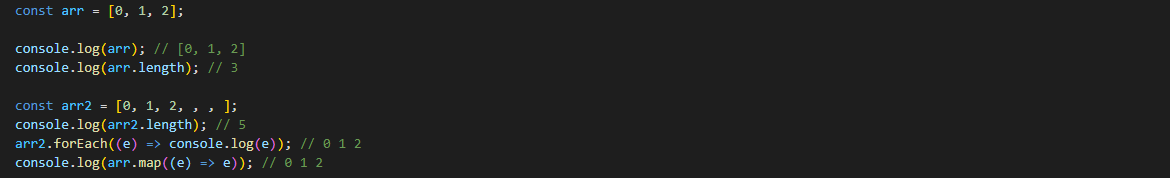
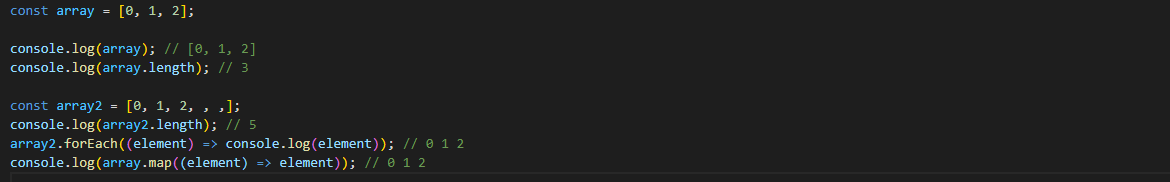
fix: html, move links to js

diff --git a/Task2/src/index.html b/Task2/src/index.html
@@ -18,90 +18,6 @@
             JS начиная от ECMAScript 6
         </h2>   
         <div class="header-menu">
-            <div class="header-menu__link">
-                <a class="link_top" href="#arrows">Стрелочные функции</a>
-            </div>
-            <div class="header-menu__link">
-                <a class="link_top"  href="#classes">Классы</a>
-            </div>
-            <div class="header-menu__link">
-                <a class="link_top"  href="#defaultParam">Параметры по умалчиванию</a>
-            </div>
-            <div class="header-menu__link">
-                <a class="link_top"  href="#destruction">Деструктуризация</a>
-            </div>
-            <div class="header-menu__link">
-                <a class="link_top"  href="#forOf">for...of</a>
-            </div>
-            <div class="header-menu__link">
-                <a class="link_top"  href="#forOf">for...of</a>
-            </div>
-            <div class="header-menu__link">
-                <a class="link_top"  href="#generators">Итераторы, генераторы</a>
-            </div>
-            <div class="header-menu__link">
-                <a class="link_top"  href="#object">Объекты</a>
-            </div>
-            <div class="header-menu__link">
-                <a class="link_top"  href="#promise">Промисы</a>
-            </div>
-            <div class="header-menu__link">
-                <a class="link_top"  href="#promiseAll">Promise all</a>
-            </div>
-            <div class="header-menu__link">
-                <a class="link_top"  href="#proxy">Proxy</a>
-            </div>
-            <div class="header-menu__link">
-                <a class="link_top"  href="#reflect">Reflect</a>
-            </div>
-            <div class="header-menu__link">
-                <a class="link_top"  href="#map">Map</a>
-            </div>
-            <div class="header-menu__link">
-                <a class="link_top"  href="#set">Set</a>
-            </div>
-            <div class="header-menu__link">
-                <a class="link_top"  href="#spread">Spread, Rest</a>
-            </div>
-            <div class="header-menu__link">
-                <a class="link_top"  href="#strMethods">String methods</a>
-            </div>
-            <div class="header-menu__link">
-                <a class="link_top"  href="#literals">Шаблонные литералы</a>
-            </div>
-            <div class="header-menu__link">
-                <a class="link_top"  href="#variables">Variables</a>
-            </div>
-            <div class="header-menu__link">
-                <a class="link_top"  href="#arrMethods">Методы массивов</a>
-            </div>
-            <div class="header-menu__link">
-                <a class="link_top"  href="#asyncAwait">Async await</a>
-            </div>
-            <div class="header-menu__link">
-                <a class="link_top"  href="#forAwaitOf">for-await-of</a>
-            </div>
-            <div class="header-menu__link">
-                <a class="link_top"  href="#tryCatch">try...catch</a>
-            </div>
-            <div class="header-menu__link">
-                <a class="link_top"  href="#expImp">Експорт, Импорт</a>
-            </div>
-            <div class="header-menu__link">
-                <a class="link_top"  href="#comma">Висящие запятые</a>
-            </div>
-            <div class="header-menu__link">
-                <a class="link_top"  href="#bigInt">BigInt</a>
-            </div>
-            <div class="header-menu__link">
-                <a class="link_top"  href="#regExp">Регулярные выражения</a>
-            </div>
-            <div class="header-menu__link">
-                <a class="link_top"  href="#optChain">Опциональная цепочка</a>
-            </div>
-            <div class="header-menu__link">
-                <a class="link_top"  href="#symbol">Symbol</a>
-            </div>
         </div>
     </div>
 </header>

diff --git a/Task2/src/app.js b/Task2/src/app.js
@@ -1,18 +1,59 @@
-const button = document.querySelector('.link_up');
-window.addEventListener('scroll', () => {
+const headerMenu = document.querySelector(".header-menu");
+
+const addLink = (href, text) => {
+  const div = document.createElement("div");
+  const link = document.createElement("a");
+  link.classList.add("link_top");
+  div.classList.add("header-menu__link");
+  link.textContent = text;
+  link.setAttribute("href", href);
+  div.appendChild(link);
+
+  headerMenu.append(div);
+};
+addLink("#arrows", "Стрелочные функции");
+addLink("#classes", "Классы");
+addLink("#defaultParam", "Параметры по умалчиванию");
+addLink("#destruction", "Деструктуризация");
+addLink("##forOf", "for...of");
+addLink("#generators", "Итераторы, генераторы");
+addLink("#object", "Объекты");
+addLink("#promise", "Промисы");
+addLink("#promiseAll", "Promise all");
+addLink("#proxy", "Proxy");
+addLink("#reflect", "Reflect");
+addLink("#map", "Map");
+addLink("#set", "Set");
+addLink("#spread", "Spread, Rest");
+addLink("#strMethods", "String methods");
+addLink("#literals", "Шаблонные литералы");
+addLink("#variables", "Variables");
+addLink("#arrMethods", "Методы массивов");
+addLink("#asyncAwait", "Async await");
+addLink("#forAwaitOf", "for-await-of");
+addLink("#tryCatch", "try...catch");
+addLink("#expImp", "Експорт, Импорт");
+addLink("#comma", "Висящие запятые");
+addLink("#bigInt", "BigInt");
+addLink("#optChain", "Опциональная цепочка");
+addLink("#regExp", "Регулярные выражения");
+addLink("#symbol", "Symbol");
+
+const button = document.querySelector(".link_up");
+window.addEventListener("scroll", () => {
   button.hidden = window.scrollY < document.documentElement.clientHeight;
 });
 const anchors = document.querySelectorAll('a[href^="#"]');
 
 anchors.forEach((anchor) => {
-  anchor.addEventListener('click', (e) => {
+  anchor.addEventListener("click", (e) => {
     e.preventDefault();
-    const goto = anchor.hasAttribute('href')
-      ? anchor.getAttribute('href')
-      : 'body';
+    const goto = anchor.hasAttribute("href")
+      ? anchor.getAttribute("href")
+      : "body";
     document.querySelector(goto).scrollIntoView({
-      behavior: 'smooth',
-      block: 'start',
+      behavior: "smooth",
+      block: "start",
     });
   });
 });

diff --git a/Task2/src/ES6/trailingCommas.js b/Task2/src/ES6/trailingCommas.js
@@ -1,9 +1,9 @@
-const arr = [0, 1, 2];
+const array = [0, 1, 2];
 
-console.log(arr); // [0, 1, 2]
-console.log(arr.length); // 3
+console.log(array); // [0, 1, 2]
+console.log(array.length); // 3
 
-const arr2 = [0, 1, 2, , ,];
-console.log(arr2.length); // 5
-arr2.forEach((e) => console.log(e)); // 0 1 2
-console.log(arr.map((e) => e)); // 0 1 2
+const array2 = [0, 1, 2, , ,];
+console.log(array2.length); // 5
+array2.forEach((element) => console.log(element)); // 0 1 2
+console.log(array.map((element) => element)); // 0 1 2
